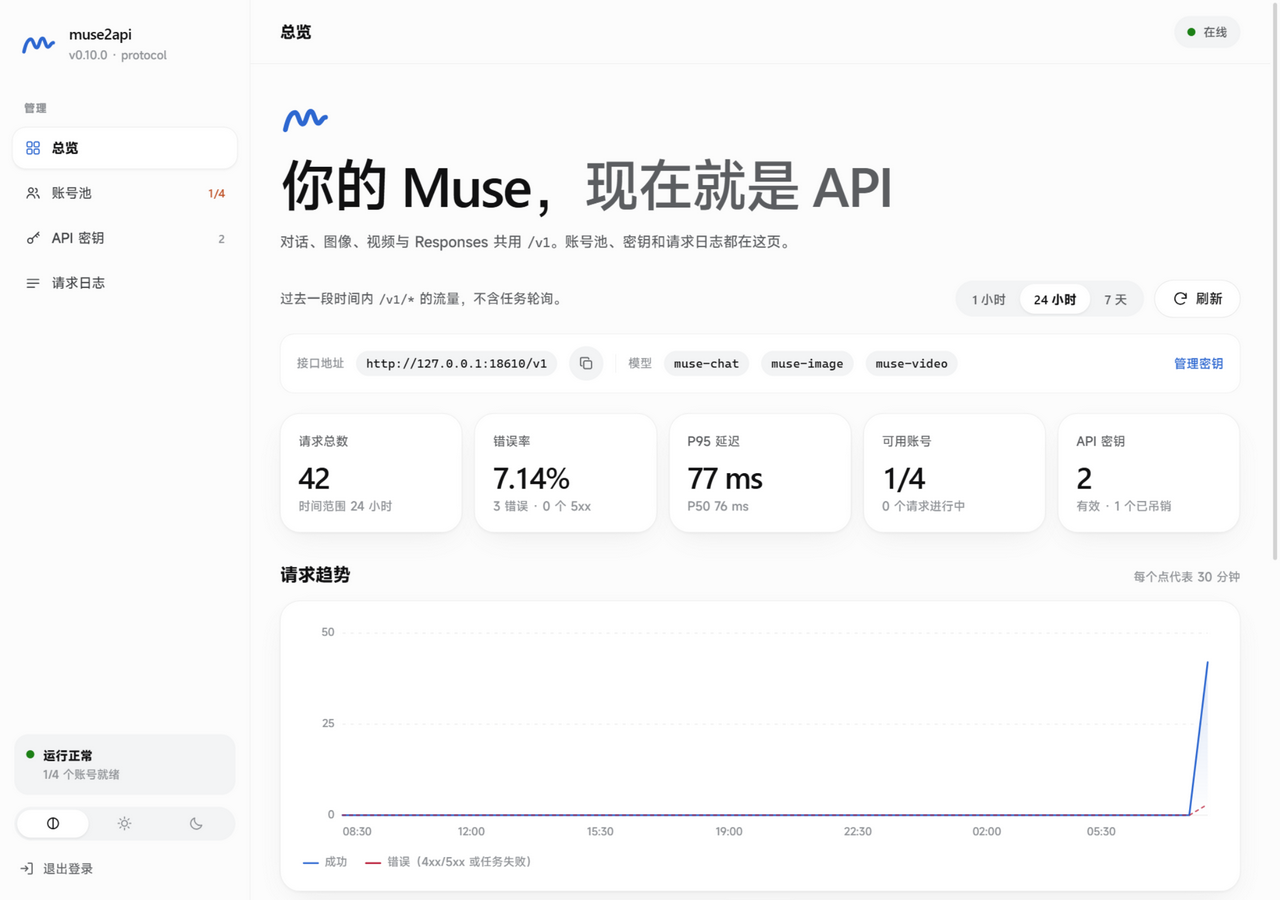
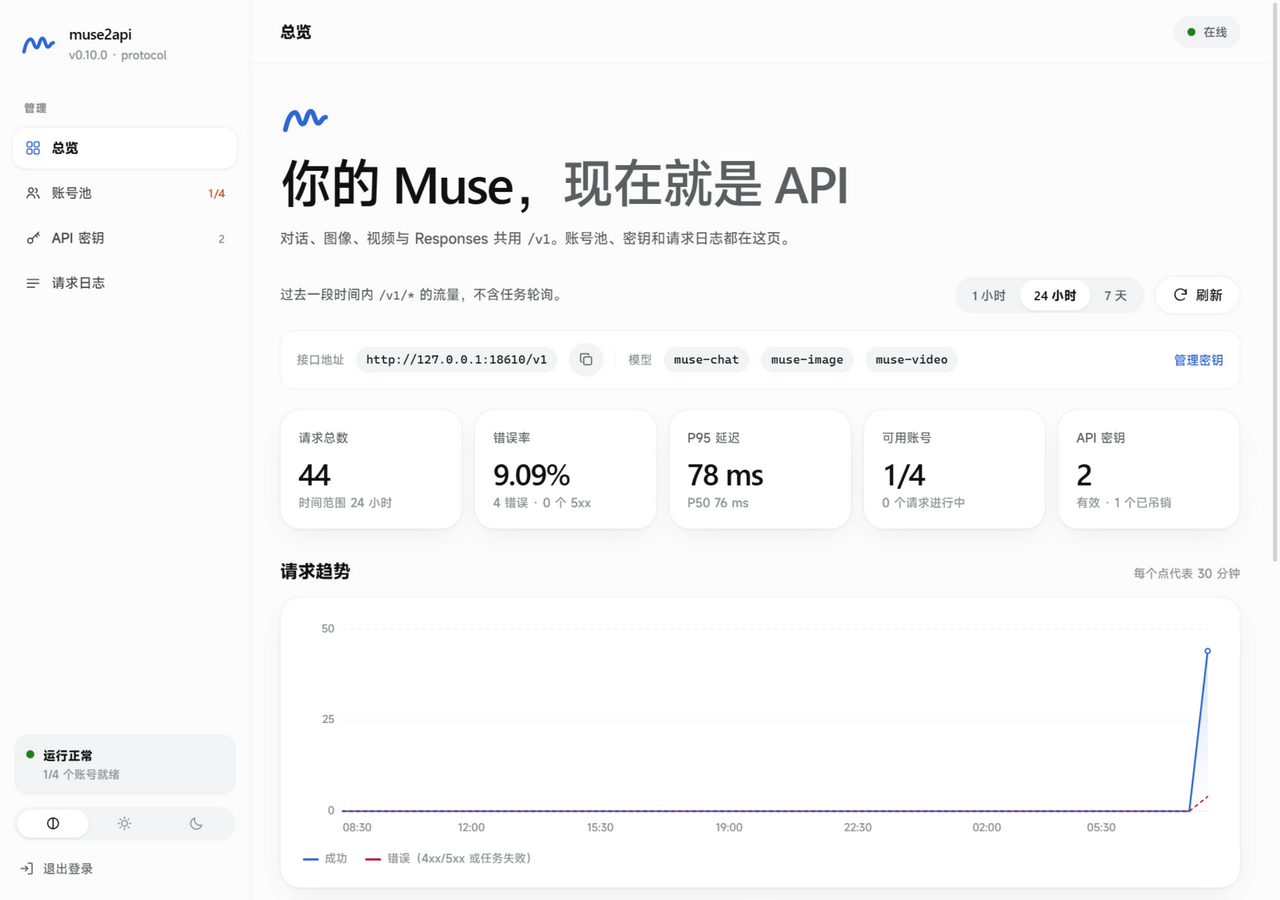
feat: muse-only model ids; reject vendor names, shrink console hero

diff --git a/src/muse2api/web/dashboard.html b/src/muse2api/web/dashboard.html
@@ -409,7 +409,7 @@ main { padding: 30px 30px 72px; width: 100%; max-width: 1240px; }
 .hero { padding: 4px 0 26px; }
 .hero .mark { width: 52px; height: 39px; color: var(--accent); display: block; margin-bottom: 18px; }
 .hero h1 {
-  font-size: clamp(34px, 4.6vw, 56px); line-height: 1.05; font-weight: 500;
+  font-size: clamp(32px, 4.3vw, 52px); line-height: 1.06; font-weight: 500;
   letter-spacing: -.04em; max-width: 18em;
 }
 .hero .lede { margin-top: 16px; font-size: 14.5px; color: var(--muted); max-width: 40em; line-height: 1.65; }

diff --git a/src/muse2api/core/models.py b/src/muse2api/core/models.py
@@ -1,4 +1,4 @@
-"""Model registry: public model ids exposed on /v1/models and alias resolution."""
+"""Model registry: the only model ids this gateway exposes and accepts."""
 
 from __future__ import annotations
 
@@ -27,29 +27,6 @@ MODELS: dict[str, ModelSpec] = {
     )
 }
 
-# Popular client-side model names are routed to the closest muse model so that
-# existing OpenAI tooling works without reconfiguration.
-ALIASES: dict[str, str] = {
-    "gpt-4o": "muse-chat",
-    "gpt-4o-mini": "muse-chat",
-    "gpt-4.1": "muse-chat",
-    "gpt-4.1-mini": "muse-chat",
-    "gpt-4.1-nano": "muse-chat",
-    "gpt-4": "muse-chat",
-    "gpt-4-turbo": "muse-chat",
-    "gpt-3.5-turbo": "muse-chat",
-    "gpt-5": "muse-chat",
-    "o1": "muse-chat",
-    "o3-mini": "muse-chat",
-    "o4-mini": "muse-chat",
-    "claude-sonnet-4": "muse-chat",
-    "deepseek-chat": "muse-chat",
-    "dall-e-2": "muse-image",
-    "dall-e-3": "muse-image",
-    "gpt-image-1": "muse-image",
-    "sora": "muse-video",
-}
-
 DEFAULT_BY_KIND: dict[ModelKind, str] = {
     "chat": "muse-chat",
     "image": "muse-image",
@@ -60,13 +37,13 @@ DEFAULT_BY_KIND: dict[ModelKind, str] = {
 def resolve_model(name: str | None, kind: ModelKind) -> ModelSpec:
     """Resolve a client-supplied model name to a ``ModelSpec`` of the expected kind.
 
-    Unknown names raise ``model_not_found`` like the real API; a known model of the
-    wrong kind is rejected so that e.g. ``muse-video`` is never silently used for chat.
+    Only the gateway's own muse models are accepted. Any other vendor or alias name
+    raises ``model_not_found``; a known model of the wrong kind is rejected so that
+    e.g. ``muse-video`` is never silently used for chat.
     """
     if not name:
         return MODELS[DEFAULT_BY_KIND[kind]]
-    key = ALIASES.get(name, name)
-    spec = MODELS.get(key)
+    spec = MODELS.get(name)
     if spec is None:
         raise NotFound(
             f"The model '{name}' does not exist or you do not have access to it.",

diff --git a/tests/test_api.py b/tests/test_api.py
@@ -18,26 +18,23 @@ def test_auth_required(client):
 
 def test_models(client, auth):
     models = client.get("/v1/models", headers=auth).json()["data"]
-    ids = {m["id"] for m in models}
-    assert ids == {"muse-chat", "muse-image", "muse-video"}
-    # Aliases are accepted for compatibility but never advertised as models.
-    assert all("alias_of" not in m for m in models)
+    assert {m["id"] for m in models} == {"muse-chat", "muse-image", "muse-video"}
 
 
 def test_chat_non_stream(client, auth):
     r = client.post("/v1/chat/completions", headers=auth, json={
-        "model": "gpt-4o", "messages": [{"role": "user", "content": "hello"}]})
+        "model": "muse-chat", "messages": [{"role": "user", "content": "hello"}]})
     assert r.status_code == 200
     body = r.json()
     assert body["object"] == "chat.completion"
-    assert body["model"] == "gpt-4o"
+    assert body["model"] == "muse-chat"
     assert "hello" in body["choices"][0]["message"]["content"]
 
 
 def test_chat_system_content_parts_use_the_prompt_bridge(client, auth, monkeypatch):
     seen = _capture_chat_requests(client, monkeypatch)
     r = client.post("/v1/chat/completions", headers=auth, json={
-        "model": "gpt-4o",
+        "model": "muse-chat",
         "messages": [
             {"role": "system", "content": [{"type": "text", "text": "你是一只猫，只回复喵。"}]},
             {"role": "user", "content": "你好"},

diff --git a/tests/test_sdk_compat.py b/tests/test_sdk_compat.py
@@ -23,7 +23,7 @@ async def test_sdk_responses_non_streaming(client, auth):
     token = auth["Authorization"].split(" ", 1)[1]
     sdk, http_client = _sdk_client(client, token)
     try:
-        resp = await sdk.responses.create(model="gpt-4o", input="sdk non-stream hello")
+        resp = await sdk.responses.create(model="muse-chat", input="sdk non-stream hello")
         assert resp.object == "response"
         assert resp.status == "completed"
         assert "sdk non-stream hello" in resp.output_text
@@ -56,7 +56,7 @@ async def test_sdk_responses_streaming(client, auth):
     token = auth["Authorization"].split(" ", 1)[1]
     sdk, http_client = _sdk_client(client, token)
     try:
-        async with sdk.responses.stream(model="gpt-4o", input="sdk stream hello") as stream:
+        async with sdk.responses.stream(model="muse-chat", input="sdk stream hello") as stream:
             async for _event in stream:
                 pass
             final = await stream.get_final_response()

diff --git a/tests/test_api_parity.py b/tests/test_api_parity.py
@@ -239,19 +239,6 @@ def test_unknown_model_is_rejected_like_the_real_api(tmp_path):
     assert "'definitely-missing'" in body["message"]
 
 
-def test_new_aliases_resolve(tmp_path):
-    driver = StubDriver("hi")
-    client = _stub_client(tmp_path, driver)
-    r = client.post("/v1/chat/completions", headers=_auth(),
-                    json={"model": "gpt-3.5-turbo",
-                          "messages": [{"role": "user", "content": "hi"}]})
-    assert r.status_code == 200
-    r = client.post("/v1/chat/completions", headers=_auth(),
-                    json={"model": "o4-mini",
-                          "messages": [{"role": "user", "content": "hi"}]})
-    assert r.status_code == 200
-
-
 # --- E9: unsupported modalities are rejected, not dropped ---------------------
 
 def test_audio_part_becomes_an_attachment(tmp_path):

diff --git a/src/muse2api/api/routes/models.py b/src/muse2api/api/routes/models.py
@@ -12,12 +12,7 @@ _CREATED = int(time.time())
 
 @router.get("/v1/models")
 async def list_models() -> dict:
-    """The models this gateway really runs.
-
-    Compatibility aliases (``gpt-4o``, ``dall-e-3``, ...) are still accepted when a
-    client sends them, but they are not advertised here: they would suggest this
-    gateway serves those vendors' models, and every alias just resolves to a muse one.
-    """
+    """The models this gateway really runs."""
     data = [
         {"id": m.id, "object": "model", "created": _CREATED, "owned_by": m.owned_by, "kind": m.kind}
         for m in MODELS.values()

diff --git a/src/muse2api/api/schemas.py b/src/muse2api/api/schemas.py
@@ -42,7 +42,7 @@ class ImageGenerationRequest(_Lenient):
     n: int = Field(default=1, ge=1, le=4)
     size: str | None = None
     response_format: Literal["url", "b64_json"] = "url"
-    # Same values as OpenAI gpt-image-1. "transparent" cuts the subject out locally
+    # OpenAI's image background values. "transparent" cuts the subject out locally
     # and returns an RGBA PNG; "auto"/"opaque" leave the image as generated.
     background: Literal["auto", "opaque", "transparent"] | None = None
     image: str | list[str] | None = Field(

diff --git a/tests/test_monitoring.py b/tests/test_monitoring.py
@@ -66,7 +66,7 @@ def test_request_logged(client, admin):
     key = client.post("/admin/keys", headers=admin, json={"name": "bob"}).json()
     headers = {**_bearer(key["api_key"]), "cf-connecting-ip": "203.0.113.7"}
     r = client.post("/v1/chat/completions", headers=headers, json={
-        "model": "gpt-4o", "messages": [{"role": "user", "content": "hi"}]})
+        "model": "muse-chat", "messages": [{"role": "user", "content": "hi"}]})
     assert r.status_code == 200
 
     row = _requests(client, admin)[0]

diff --git a/tests/test_core.py b/tests/test_core.py
@@ -55,8 +55,7 @@ def test_thread_url_ignores_the_new_thread_page():
 
 
 def test_resolve_model():
-    assert resolve_model("gpt-4o", "chat").id == "muse-chat"
-    assert resolve_model("gpt-3.5-turbo", "chat").id == "muse-chat"
+    assert resolve_model("muse-chat", "chat").id == "muse-chat"
     assert resolve_model(None, "video").id == "muse-video"
     with pytest.raises(InvalidRequest):
         resolve_model("muse-image", "chat")

diff --git a/docs/ARCHITECTURE.md b/docs/ARCHITECTURE.md
@@ -30,7 +30,7 @@ flowchart TB
 
     subgraph core["core/ — 与上游无关"]
         direction TB
-        core_models["models.py<br/>模型注册 · 别名"]
+        core_models["models.py<br/>模型注册与校验"]
         core_prompt["prompt.py<br/>messages → prompt"]
         core_media["media.py · matting.py<br/>媒体存储 · 抠图"]
         core_compat["system_prompt.py · tool_plan.py<br/>system 提示词与工具调用"]
@@ -57,7 +57,7 @@ flowchart TB
 
 ## 一次聊天请求的生命周期
 
-1. `routes/chat.py` 校验请求，`resolve_model` 解析模型别名，`flatten_messages` 把多轮对话合并成一条提示词并提取图片。
+1. `routes/chat.py` 校验请求，`resolve_model` 校验模型名，`flatten_messages` 把多轮对话合并成一条提示词并提取图片。
 2. 如果请求带 `system` / `developer` 消息，`core/system_prompt.py` 会把它们整理成前置指令块，并生成指令指纹。
 3. `Gateway.chat_stream` 通过 `AccountPool.lease()` 租用一个账号（受调度策略和单账号并发限制约束，默认每账号 12 并发）。
 4. 调用 `driver.chat_stream(account, ChatRequest)`，接收文本增量。

diff --git a/README.md b/README.md
@@ -74,7 +74,7 @@ curl http://localhost:18610/admin/accounts \
 |---|---|
 | API Base | `http://<网关地址>:18610/v1` |
 | API Key | `MUSE2API_API_KEY`，或控制台创建的 `m2a-...` 密钥 |
-| 模型 | `muse-chat`、`muse-image`、`muse-video`；`gpt-4o` 等常见名称仅作兼容别名，不出现在 `/v1/models` |
+| 模型 | `muse-chat`、`muse-image`、`muse-video`（其他模型名一律拒绝） |
 | 超时 | 建议 ≥ 240 秒（muse.ai 冷启动较慢） |
 
 ```python
@@ -119,7 +119,7 @@ muse.ai 网页 Agent  ──  系统指令 · 线程 · 客户端工具  ── 
 
 一次聊天请求会经历这些步骤：
 
-1. 路由解析模型别名，把多轮 `messages` 与 `system` 指令整理成一条提示词；
+1. 路由校验模型名，把多轮 `messages` 与 `system` 指令整理成一条提示词；
 2. 网关从账号池租一个账号，驱动建立或复用 muse.ai 线程；
 3. 上游的 `delta.text_append` 直接变成 OpenAI `delta.content`；
 4. 出错时按类型更新账号状态，在尚未向客户端发送内容前自动换号重试；
